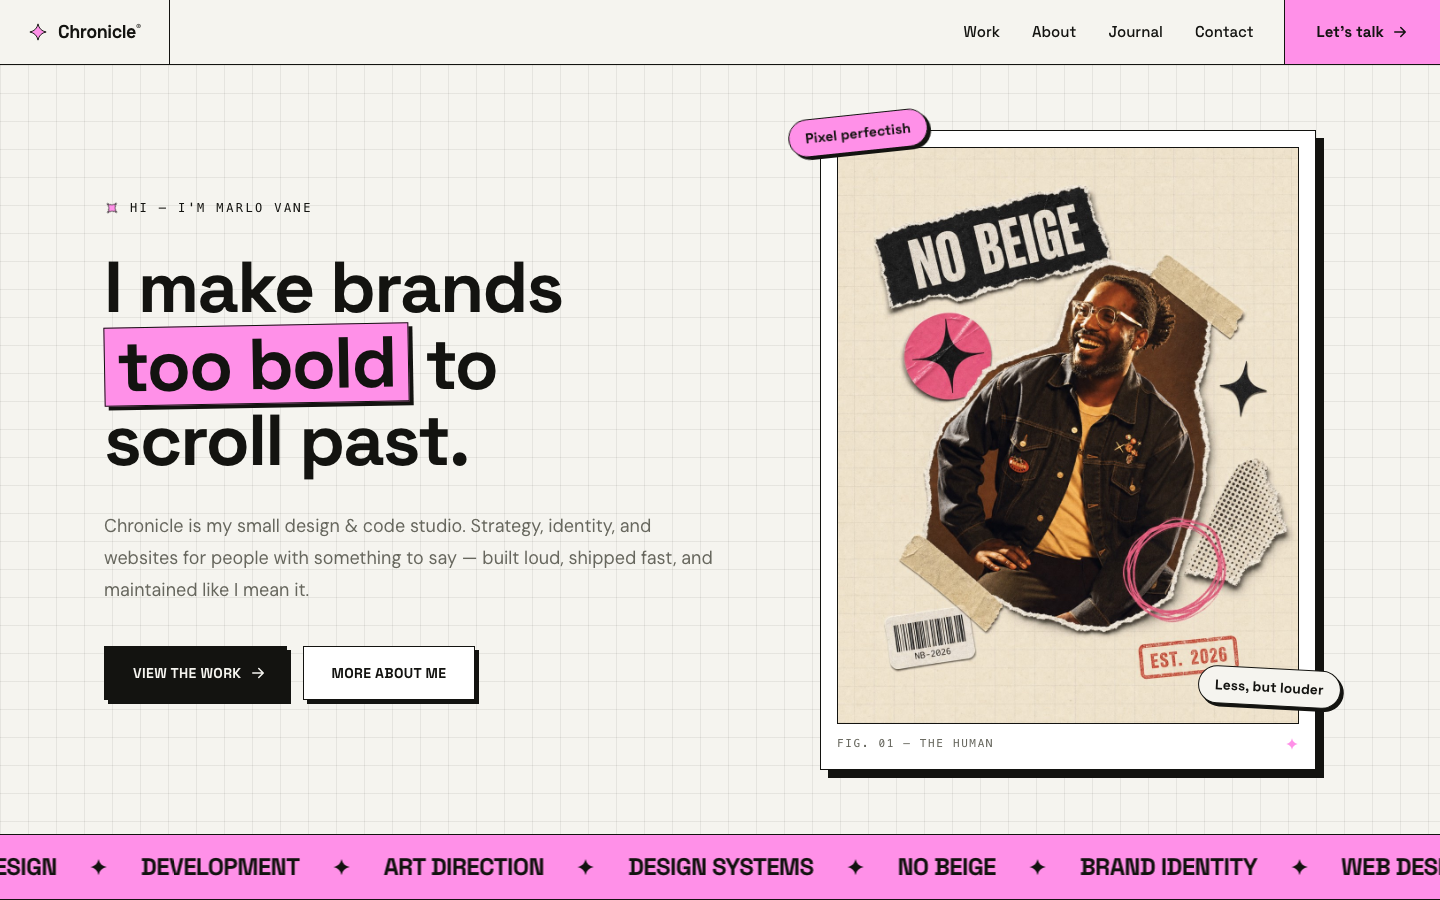
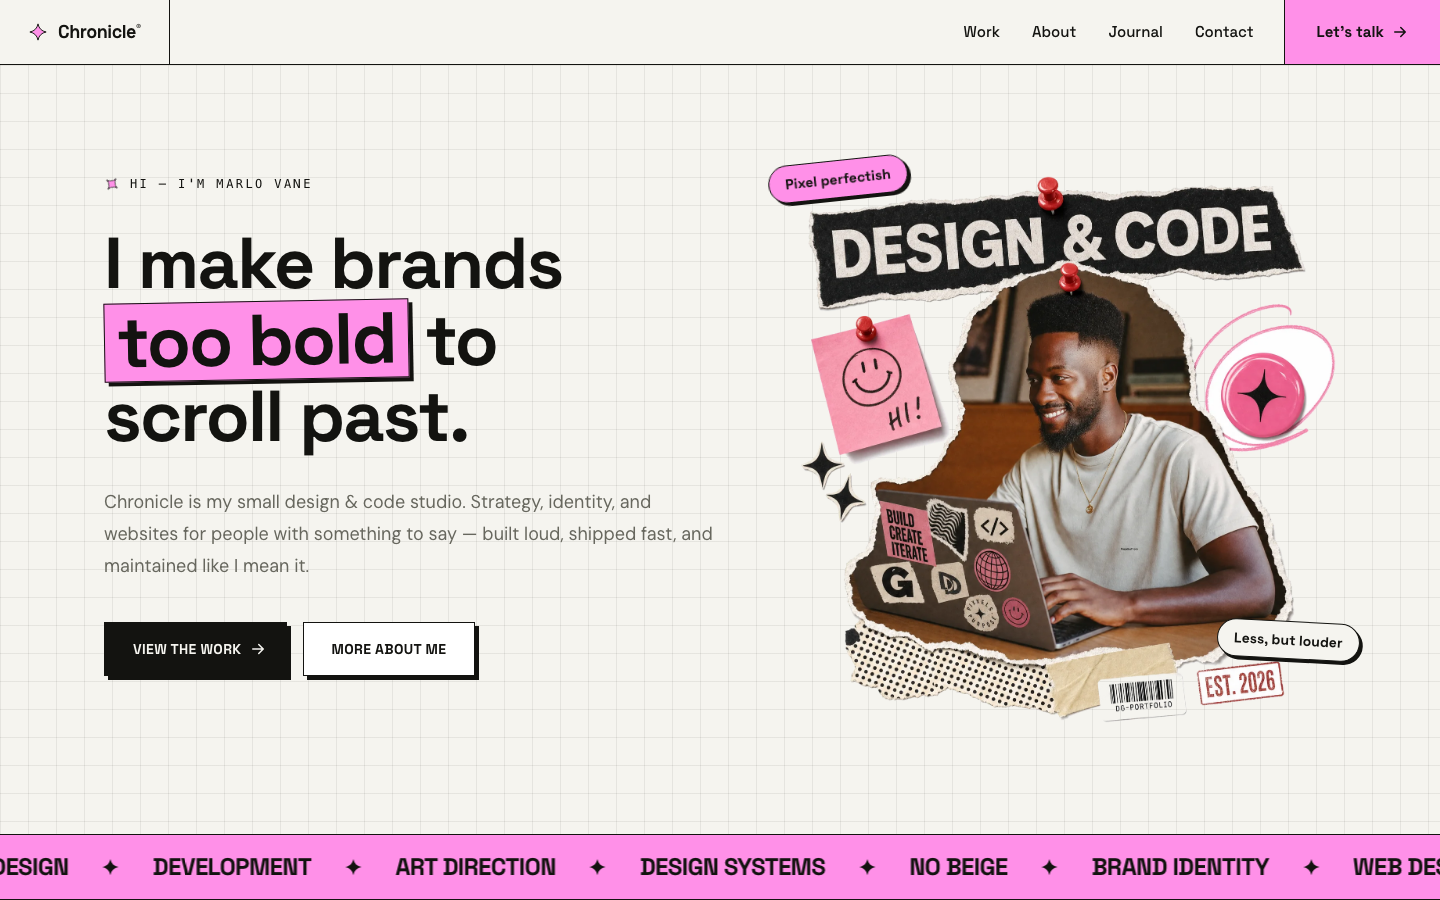
Adding latest to chronicle

diff --git a/files/resources/css/site.css b/files/resources/css/site.css
@@ -121,6 +121,52 @@ h1, h2, h3, h4,
     box-shadow: 11px 11px 0 0 var(--color-line);
 }
 
+/*
+    The nav roll-up. Each menu label is drawn twice, stacked; hovering the
+    link slides the pair up one line inside a clipped window, so the label
+    flips away and its twin rises from below.
+*/
+.nav-flip {
+    display: block;
+    overflow: clip;
+}
+
+.nav-flip-track {
+    position: relative;
+    display: block;
+    transition: translate 0.3s var(--ease-out-quart);
+}
+
+.nav-flip-track > span {
+    display: block;
+}
+
+.nav-flip-track > span + span {
+    position: absolute;
+    top: 100%;
+    left: 0;
+    width: 100%;
+}
+
+.nav-flip-link:hover .nav-flip-track,
+.nav-flip-link:focus-visible .nav-flip-track {
+    translate: 0 -100%;
+}
+
+/*
+    The current page's link carries a short pink bar under its label — drawn
+    as a pseudo-element because text-decoration can't reach into the flip's
+    block-level spans. The inset matches the link's px-3.5 padding.
+*/
+.nav-flip-link[aria-current='page']::after {
+    content: '';
+    position: absolute;
+    inset-inline: 0.875rem;
+    bottom: 0.3rem;
+    height: 3px;
+    background: var(--color-accent);
+}
+
 /* Outlined display type — the giant footer wordmark and 404 numeral. */
 .text-outline {
     -webkit-text-stroke: 2px var(--color-ink);
@@ -211,6 +257,10 @@ h1, h2, h3, h4,
     .marquee-track,
     .spin-slow {
         animation: none;
+    }
+
+    .nav-flip-track {
+        transition: none;
     }
 
     ::view-transition-old(root),

diff --git a/files/public/js/main.js b/files/public/js/main.js
@@ -159,6 +159,8 @@ function countUpStats() {
 /*
     Sticker tilt: elements tagged data-tilt lean gently toward the pointer
     as it moves across their parent section — a light, playful parallax.
+    When the pointer leaves the section the chips simply keep their last
+    lean instead of snapping back to their resting spot.
 */
 function stickerTilt() {
     const stickers = document.querySelectorAll('[data-tilt]');
@@ -178,10 +180,6 @@ function stickerTilt() {
             const x = (event.clientX - rect.left) / rect.width - 0.5;
             const y = (event.clientY - rect.top) / rect.height - 0.5;
             el.style.translate = (x * 10) + 'px ' + (y * 10) + 'px';
-        });
-
-        zone.addEventListener('pointerleave', function () {
-            el.style.translate = '0px 0px';
         });
     });
 }

diff --git a/files/resources/views/components/sections/hero.blade.php b/files/resources/views/components/sections/hero.blade.php
@@ -8,19 +8,19 @@
     'primaryLink' => '/work',
     'secondaryText' => 'More about me',
     'secondaryLink' => '/about',
-    'image' => '/assets/images/hero-portrait.jpg',
+    'image' => '/assets/images/hero-portrait.webp',
     'imageAlt' => 'Torn-paper collage portrait of Marlo Vane',
-    'caption' => 'Fig. 01 — The human',
     'showStickers' => '1',
     'stickerOne' => 'Pixel perfectish',
     'stickerTwo' => 'Less, but louder',
 ])
 <!--
     The opening statement: a huge display headline with one phrase set on a
-    pink sticker pill, subcopy and two buttons on the left, and the studio
-    portrait in a brutal frame on the right — sticker chips lean toward the
-    pointer as it moves. Turn the stickers off from the inspector if you
-    want the portrait plain.
+    pink sticker pill, subcopy and two buttons on the left, and the torn-paper
+    collage portrait floating frameless on the canvas to the right — sticker
+    chips lean toward the pointer as it moves. The collage is a transparent
+    webp, so it blends straight into the page background. Turn the chips off
+    from the inspector if you want the collage plain.
 -->
 <!--
     On desktop the hero fills the viewport minus the sticky nav (65px) and the
@@ -32,7 +32,8 @@
 
     <div class="relative mx-auto grid w-full max-w-7xl items-center gap-14 px-6 pt-16 pb-20 sm:pt-20 sm:pb-24 lg:grid-cols-[1.15fr_1fr] lg:gap-20 lg:py-10">
 
-        <div>
+        <!-- Nudged up a touch at lg: the small eyebrow line makes true centering read low against the collage. -->
+        <div class="lg:-translate-y-6">
             <p class="inline-flex items-center gap-2.5 font-mono text-xs font-medium tracking-[0.2em] uppercase" data-reveal>
                 <svg viewBox="0 0 64 64" class="spin-slow size-4 fill-accent" aria-hidden="true">
                     <path stroke="currentColor" stroke-width="3" class="text-ink" d="M32 6 C34.8 20.4 43.6 29.2 58 32 C43.6 34.8 34.8 43.6 32 58 C29.2 43.6 20.4 34.8 6 32 C20.4 29.2 29.2 20.4 32 6 Z"/>
@@ -61,17 +62,9 @@
             </div>
         </div>
 
-        <!-- The portrait, framed like a print -->
-        <div class="reveal-2 relative mx-auto w-full max-w-md lg:max-w-[min(100%,calc((100dvh-17.5rem)*0.8))]" data-reveal>
-            <div class="border border-line bg-panel p-3 shadow-brutal-lg sm:p-4">
-                <img src="{{ $image }}" alt="{{ $imageAlt }}" class="aspect-[4/5] w-full border border-line object-cover">
-                <div class="flex items-center justify-between pt-3 font-mono text-[11px] tracking-[0.15em] text-muted uppercase">
-                    <span>{{ $caption }}</span>
-                    <svg viewBox="0 0 64 64" class="size-3.5 fill-accent" aria-hidden="true">
-                        <path d="M32 6 C34.8 20.4 43.6 29.2 58 32 C43.6 34.8 34.8 43.6 32 58 C29.2 43.6 20.4 34.8 6 32 C20.4 29.2 29.2 20.4 32 6 Z"/>
-                    </svg>
-                </div>
-            </div>
+        <!-- The collage — frameless, floating straight on the canvas -->
+        <div class="reveal-2 relative mx-auto w-full max-w-md lg:max-w-[min(100%,calc((100dvh-13rem)*0.9))]" data-reveal>
+            <img src="{{ $image }}" alt="{{ $imageAlt }}" class="w-full">
 
             @if ($showStickers)
             <span data-tilt class="absolute -top-4 -left-4 inline-block -rotate-6 rounded-full border border-line bg-accent px-4 py-2 font-display text-sm font-bold text-accent-ink shadow-brutal-sm sm:-left-8">{{ $stickerOne }}</span>

diff --git a/files/resources/views/components/nav.blade.php b/files/resources/views/components/nav.blade.php
@@ -15,12 +15,14 @@
     <div class="flex h-16 items-stretch">
 
         <!-- href="/" always points to your site's root, in preview and when published -->
-        <!-- Hovering the wordmark spins the spark a quarter turn and pops it up a touch. -->
-        <a href="/" aria-label="Homepage" class="group flex shrink-0 items-center gap-2.5 border-r border-line px-5 text-ink sm:px-7">
-            <svg viewBox="0 0 64 64" class="size-5 shrink-0 fill-accent transition-transform duration-500 [transition-timing-function:var(--ease-spring)] group-hover:rotate-90 group-hover:scale-125" aria-hidden="true">
-                <path stroke="currentColor" stroke-width="3" d="M32 6 C34.8 20.4 43.6 29.2 58 32 C43.6 34.8 34.8 43.6 32 58 C29.2 43.6 20.4 34.8 6 32 C20.4 29.2 29.2 20.4 32 6 Z"/>
-            </svg>
-            <span class="font-display text-lg font-bold tracking-tight">{{ $brand }}<span class="align-super text-[10px]">®</span></span>
+        <!-- Hovering the wordmark spins the spark and lifts the whole mark a touch; pressing squashes it down like a real button. -->
+        <a href="/" aria-label="Homepage" class="group flex shrink-0 items-center border-r border-line px-5 text-ink sm:px-7">
+            <span class="flex items-center gap-2.5 transition-transform duration-300 [transition-timing-function:var(--ease-spring)] group-hover:scale-[1.05] group-active:scale-[0.98]">
+                <svg viewBox="0 0 64 64" class="size-5 shrink-0 fill-accent transition-transform duration-500 [transition-timing-function:var(--ease-spring)] group-hover:rotate-90 group-hover:scale-125" aria-hidden="true">
+                    <path stroke="currentColor" stroke-width="3" d="M32 6 C34.8 20.4 43.6 29.2 58 32 C43.6 34.8 34.8 43.6 32 58 C29.2 43.6 20.4 34.8 6 32 C20.4 29.2 29.2 20.4 32 6 Z"/>
+                </svg>
+                <span class="font-display text-lg font-bold tracking-tight">{{ $brand }}<span class="align-super text-[10px]">®</span></span>
+            </span>
         </a>
 
         <!-- Primary links -->
@@ -28,7 +30,15 @@
             <ul role="list" class="flex items-center gap-1 font-display text-[15px] font-medium">
                 @foreach ($links as $link)
                 <li>
-                    <a href="{{ $link->url }}" class="block px-3.5 py-2 transition-colors duration-150 hover:bg-accent hover:text-accent-ink aria-[current]:underline aria-[current]:decoration-accent aria-[current]:decoration-[3px] aria-[current]:underline-offset-[6px]">{{ $link->text }}</a>
+                    <!-- Hover rolls the label up and a twin rises from below; the current page carries a pink bar (see .nav-flip in site.css) -->
+                    <a href="{{ $link->url }}" class="nav-flip-link relative block px-3.5 py-2">
+                        <span class="nav-flip">
+                            <span class="nav-flip-track">
+                                <span>{{ $link->text }}</span>
+                                <span aria-hidden="true">{{ $link->text }}</span>
+                            </span>
+                        </span>
+                    </a>
                 </li>
                 @endforeach
             </ul>
